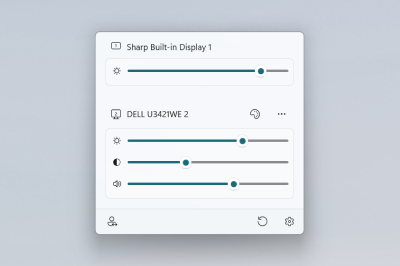
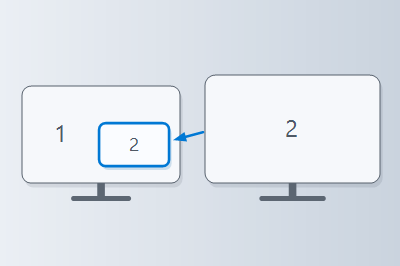
DEPiP: Polish display previews and mirror window behavior
Add dedicated DEPiP artwork, preserve captured preview alpha in Light Mode, use readable display titles, and keep the mirror opaque while the pointer is over it.

Copilot-Session: ec308d32-b9a7-4cb0-b233-792d1fce5d91

diff --git a/src/modules/DEPiP/DEPiP/DisplayCapture.cpp b/src/modules/DEPiP/DEPiP/DisplayCapture.cpp
@@ -1,6 +1,7 @@
 #include "pch.h"
 
 #include "DisplayCapture.h"
+#include "resource.h"
 
 #include <common/SettingsAPI/settings_helpers.h>
 
@@ -15,7 +16,7 @@ namespace
         MONITORINFOEXW info{ sizeof(MONITORINFOEXW) };
         if (GetMonitorInfoW(monitor, &info))
         {
-            displays->push_back({ monitor, info });
+            displays->push_back({ monitor, info, displays->size() + 1 });
         }
         return TRUE;
     }
@@ -26,6 +27,18 @@ std::vector<DisplayInfo> EnumerateDisplays()
     std::vector<DisplayInfo> displays;
     EnumDisplayMonitors(nullptr, nullptr, AddMonitor, reinterpret_cast<LPARAM>(&displays));
     return displays;
+}
+
+std::wstring GetDisplayLabel(DisplayInfo const& display)
+{
+    wchar_t const* value = nullptr;
+    int length = LoadStringW(
+        GetModuleHandleW(nullptr),
+        IDS_DISPLAY_LABEL,
+        reinterpret_cast<wchar_t*>(&value),
+        0);
+    winrt::check_bool(length > 0);
+    return std::wstring(value, static_cast<size_t>(length)) + L" " + std::to_wstring(display.number);
 }
 
 DEPiPSettings LoadDEPiPSettings()
@@ -105,6 +118,12 @@ winrt::Microsoft::UI::Xaml::Media::Imaging::WriteableBitmap CaptureDisplayPrevie
         sourceWidth,
         sourceHeight,
         SRCCOPY | CAPTUREBLT);
+
+    auto sourcePixels = static_cast<byte*>(pixels);
+    for (size_t offset = 3; offset < PreviewWidth * PreviewHeight * 4; offset += 4)
+    {
+        sourcePixels[offset] = 0xFF;
+    }
 
     winrt::Microsoft::UI::Xaml::Media::Imaging::WriteableBitmap source(
         PreviewWidth,

diff --git a/src/modules/DEPiP/DEPiP/DEPiPXAML/MirrorWindow.xaml.cpp b/src/modules/DEPiP/DEPiP/DEPiPXAML/MirrorWindow.xaml.cpp
@@ -40,7 +40,7 @@ namespace winrt::DEPiP::implementation
         m_source = source;
         m_settings = LoadDEPiPSettings();
         m_captureItem = CreateCaptureItem(source.monitor);
-        Title(L"DEPiP - " + std::wstring(source.info.szDevice));
+        Title(L"DEPiP - " + GetDisplayLabel(source));
 
         auto native = this->try_as<::IWindowNative>();
         winrt::check_hresult(native->get_WindowHandle(&m_window));
@@ -332,9 +332,15 @@ namespace winrt::DEPiP::implementation
         POINT cursor{};
         if (GetCursorPos(&cursor))
         {
-            BYTE alpha = MonitorFromPoint(cursor, MONITOR_DEFAULTTONEAREST) == m_source.monitor ?
-                             255 :
-                             static_cast<BYTE>(MulDiv(255, 100 - m_settings.inactiveTransparency, 100));
+            RECT windowBounds{};
+            bool cursorOnSource =
+                MonitorFromPoint(cursor, MONITOR_DEFAULTTONEAREST) == m_source.monitor;
+            bool cursorOnMirror =
+                GetWindowRect(m_window, &windowBounds) && PtInRect(&windowBounds, cursor);
+            BYTE alpha =
+                cursorOnSource || cursorOnMirror ?
+                    255 :
+                    static_cast<BYTE>(MulDiv(255, 100 - m_settings.inactiveTransparency, 100));
             LONG_PTR style = GetWindowLongPtrW(m_window, GWL_EXSTYLE);
             SetWindowLongPtrW(m_window, GWL_EXSTYLE, style | WS_EX_LAYERED);
             SetLayeredWindowAttributes(m_window, 0, alpha, LWA_ALPHA);

diff --git a/src/modules/DEPiP/DEPiP/DEPiPXAML/DisplaySelectorWindow.xaml.cpp b/src/modules/DEPiP/DEPiP/DEPiPXAML/DisplaySelectorWindow.xaml.cpp
@@ -38,7 +38,6 @@ namespace winrt::DEPiP::implementation
 
         m_displays = std::move(displays);
         m_selected = std::move(selected);
-        auto displayLabel = LoadStringResource(IDS_DISPLAY_LABEL);
         auto primaryLabel = LoadStringResource(IDS_PRIMARY_DISPLAY);
 
         auto primary = std::find_if(m_displays.begin(), m_displays.end(), [](auto const& display) {
@@ -81,7 +80,7 @@ namespace winrt::DEPiP::implementation
             image.Source(CaptureDisplayPreview(display));
 
             RECT bounds = display.info.rcMonitor;
-            std::wstring label = displayLabel + L" " + std::to_wstring(index + 1);
+            std::wstring label = GetDisplayLabel(display);
             if ((display.info.dwFlags & MONITORINFOF_PRIMARY) != 0)
             {
                 label += L" (" + primaryLabel + L")";

diff --git a/src/modules/DEPiP/DEPiP/DisplayCapture.h b/src/modules/DEPiP/DEPiP/DisplayCapture.h
@@ -4,6 +4,7 @@ struct DisplayInfo
 {
     HMONITOR monitor = nullptr;
     MONITORINFOEXW info{ sizeof(MONITORINFOEXW) };
+    size_t number = 0;
 };
 
 struct DEPiPSettings
@@ -14,6 +15,7 @@ struct DEPiPSettings
 };
 
 std::vector<DisplayInfo> EnumerateDisplays();
+std::wstring GetDisplayLabel(DisplayInfo const& display);
 DEPiPSettings LoadDEPiPSettings();
 winrt::Windows::Graphics::Capture::GraphicsCaptureItem CreateCaptureItem(HMONITOR monitor);
 winrt::Microsoft::UI::Xaml::Media::Imaging::WriteableBitmap CaptureDisplayPreview(DisplayInfo const& display);
